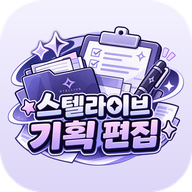
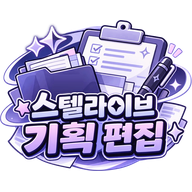
비공식 문구 추가, 아이콘에서 엠블럼 제거 (2차 창작 가이드라인)

diff --git a/index.html b/index.html
@@ -72,7 +72,7 @@
 <main class="card" aria-live="polite">
   <img class="logo" src="icon-192.png" alt="">
   <h1>스텔라이브 기획서</h1>
-  <p class="sub">등록된 사람만 볼 수 있습니다</p>
+  <p class="sub">비공식 팬 프로젝트 · 스텔라이브 공식 활동이 아닙니다<br>등록된 사람만 볼 수 있습니다</p>
 
   <section class="step on" id="step-loading">
     <div class="loading"><div class="spinner"></div><span id="loading-text">확인하는 중…</span></div>

diff --git a/README.md b/README.md
@@ -1,4 +1,5 @@
 # 스텔라이브 기획서 로그인
 
 팬 게임 기획서를 보기 위한 로그인 페이지입니다.
+**비공식 팬 프로젝트이며, 스텔라이브 공식 활동이 아닙니다.** 스텔라이브 2차 창작 가이드라인(https://stellive.me/guideline)을 따릅니다.
 기획서 내용은 이 저장소에 없고, Google·네이버 로그인과 OTP 2단계 인증을 마친 등록된 사람에게만 서버에서 전달됩니다.
